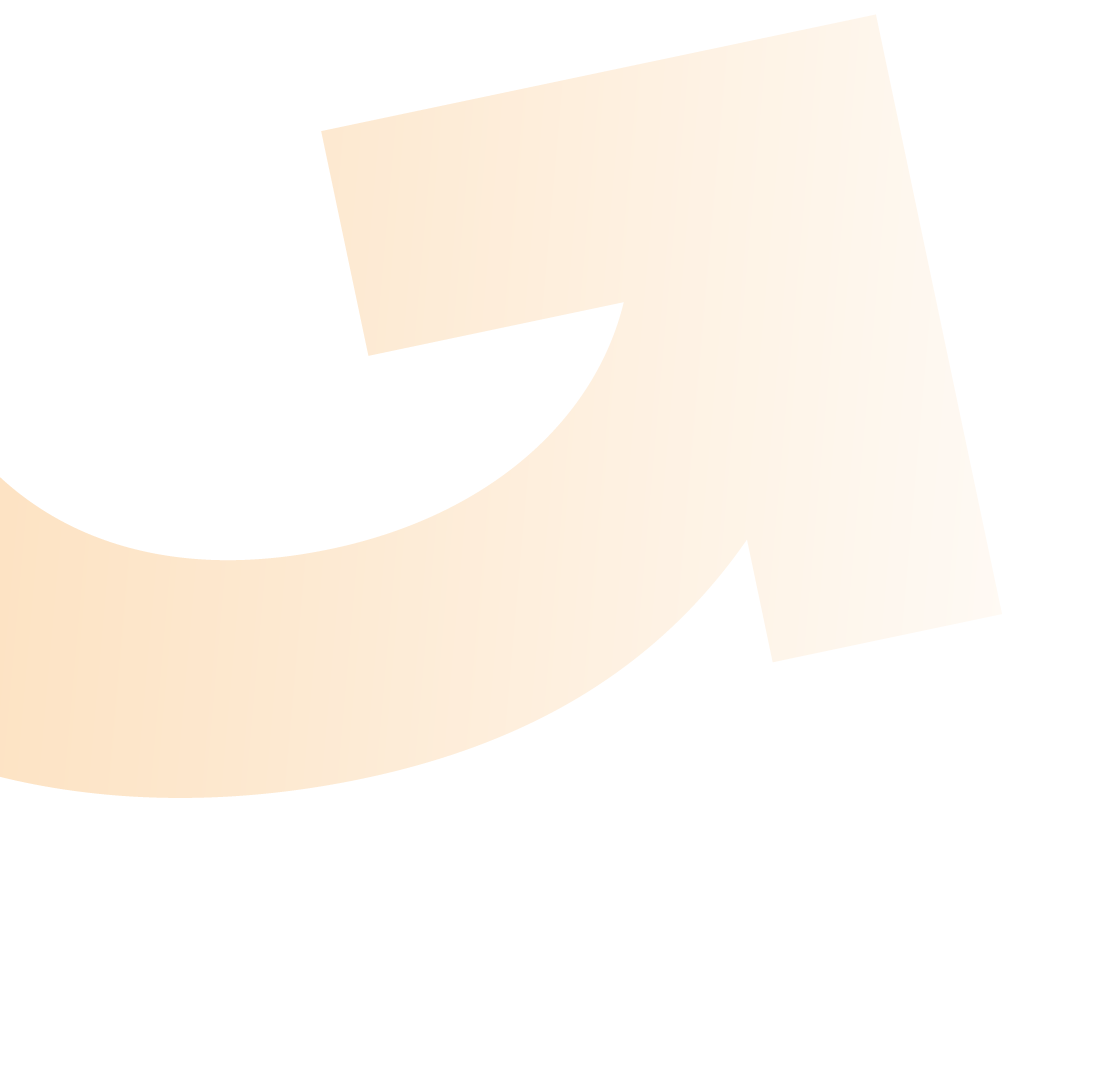
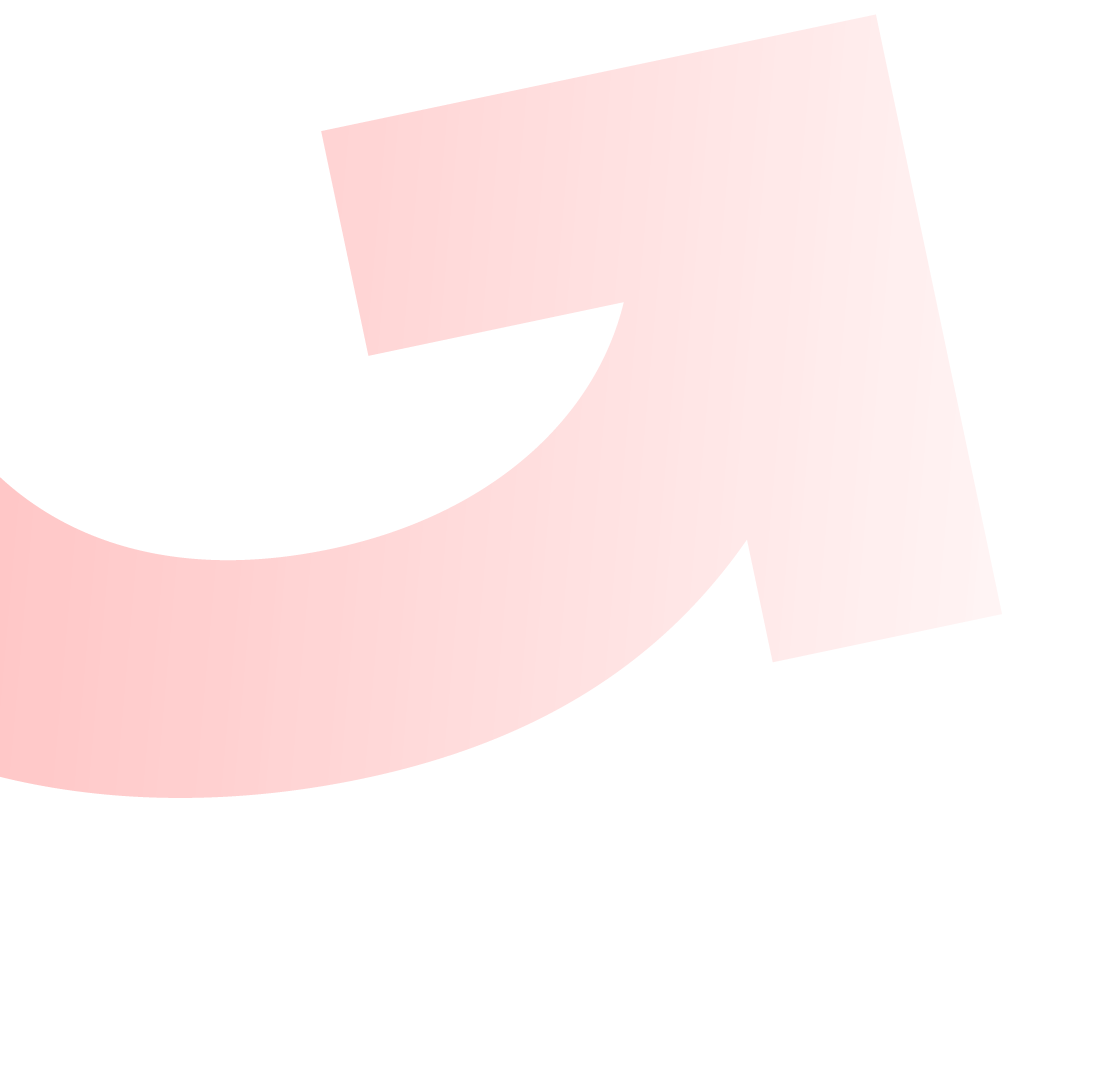
Update welcome screen to new design

Changed region(s): [[0.0, 0.429, 0.1855, 0.7354]]

diff --git a/org.globaltester.platform/intro/themes/gt3/html/shared.css b/org.globaltester.platform/intro/themes/gt3/html/shared.css
@@ -29,7 +29,7 @@ a {
 }
 
 a:hover  {
-    color: #fa960a; 
+    color: #e3043c; 
 }
 
 /* General link labels */
@@ -234,7 +234,7 @@ div#rss-news {
 }
 
 .content-link:hover .link-label {
-    color: #fa960a;
+    color: #e3043c;
 }
 
 .content-link .text {
